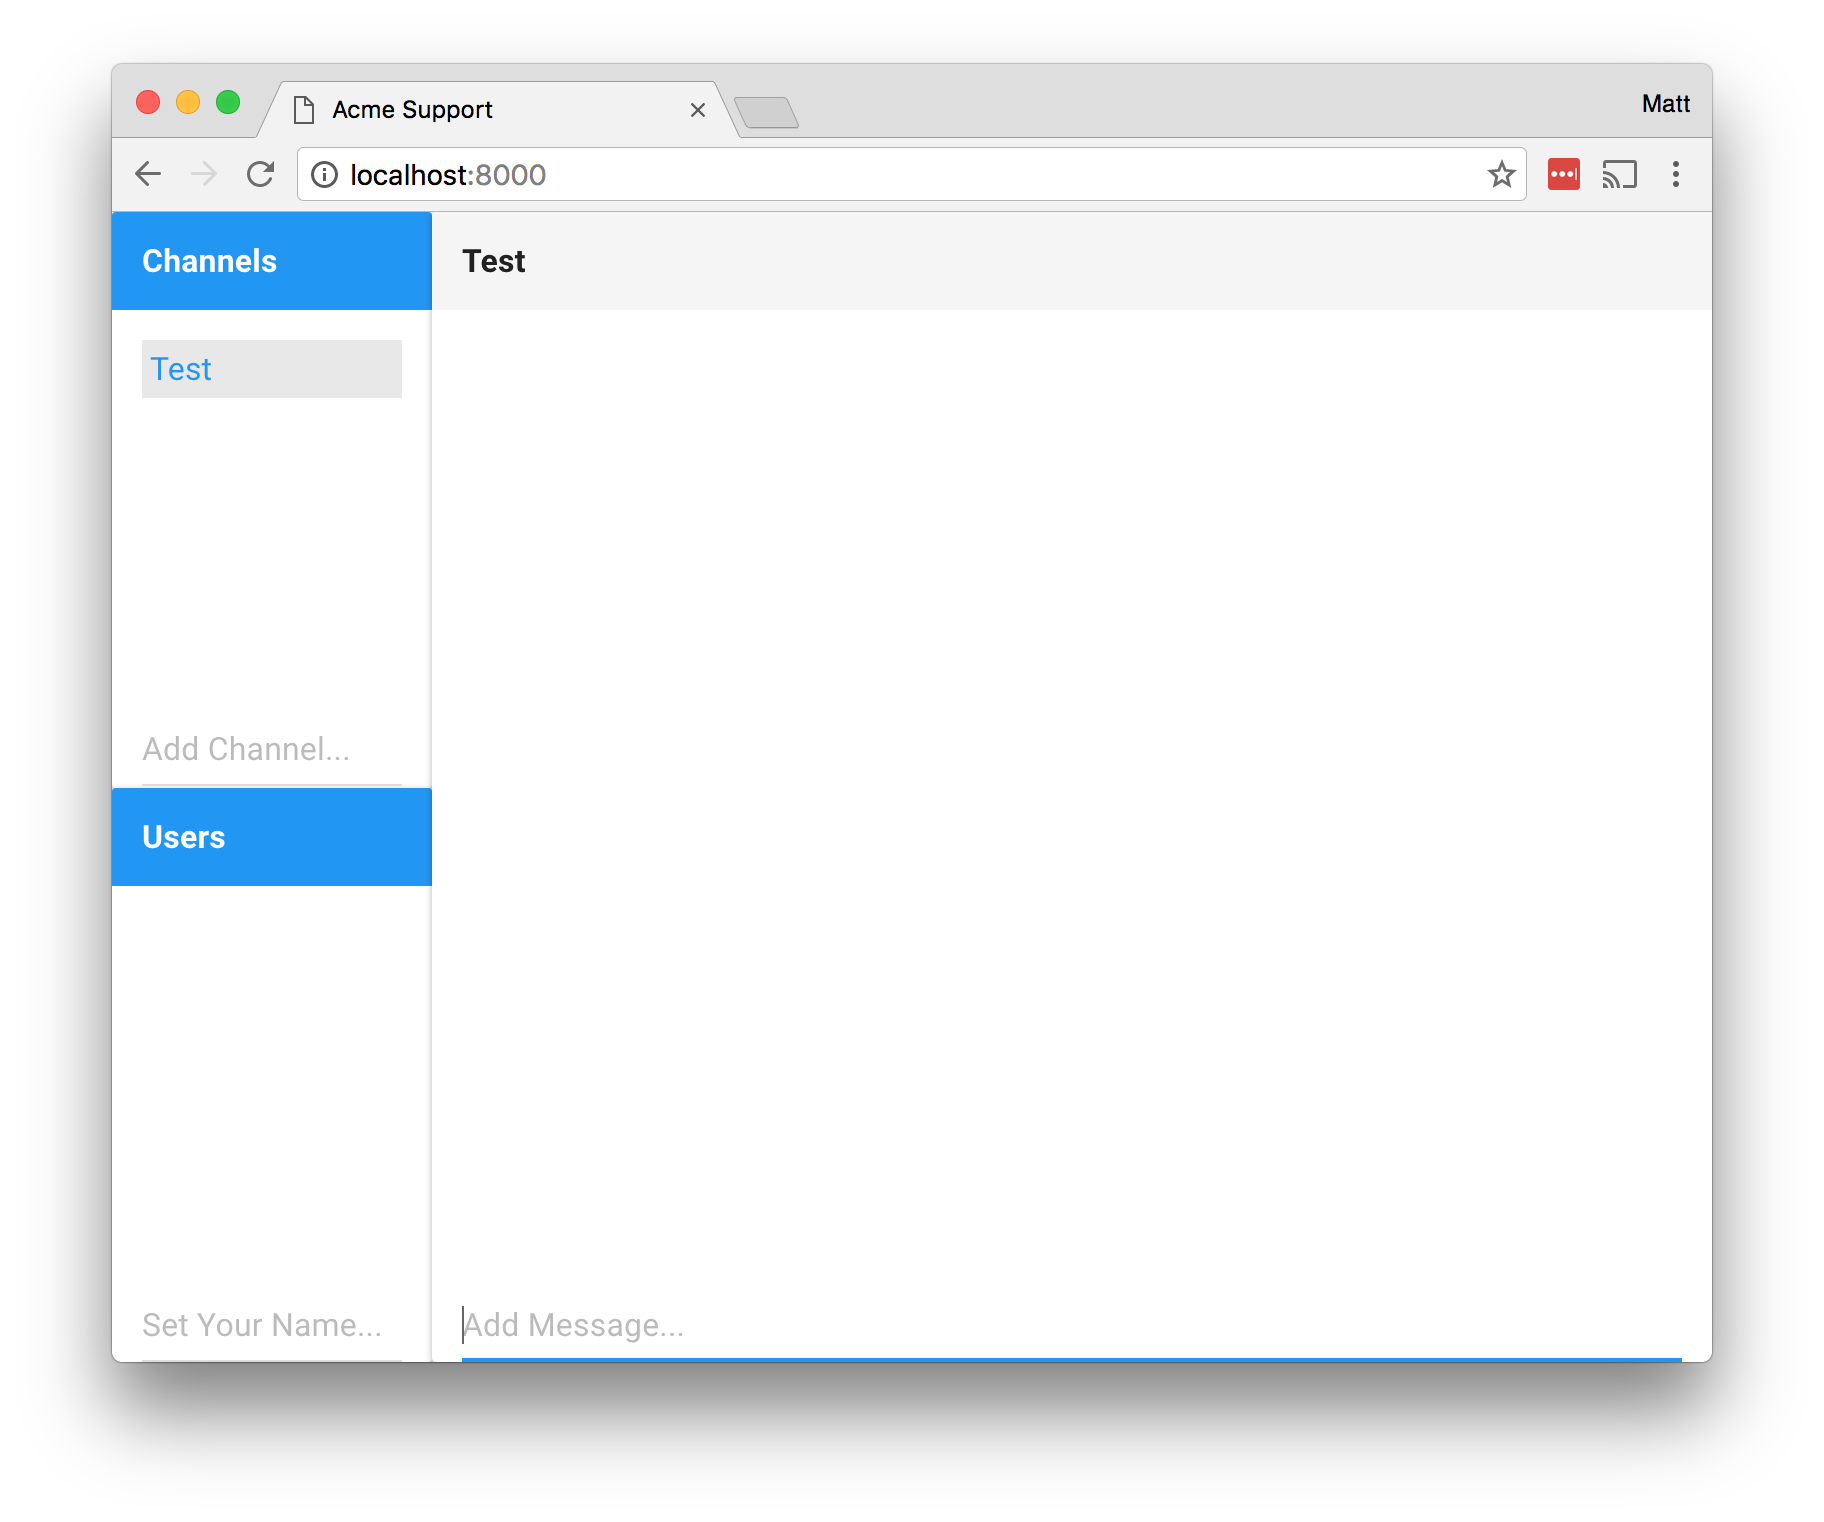
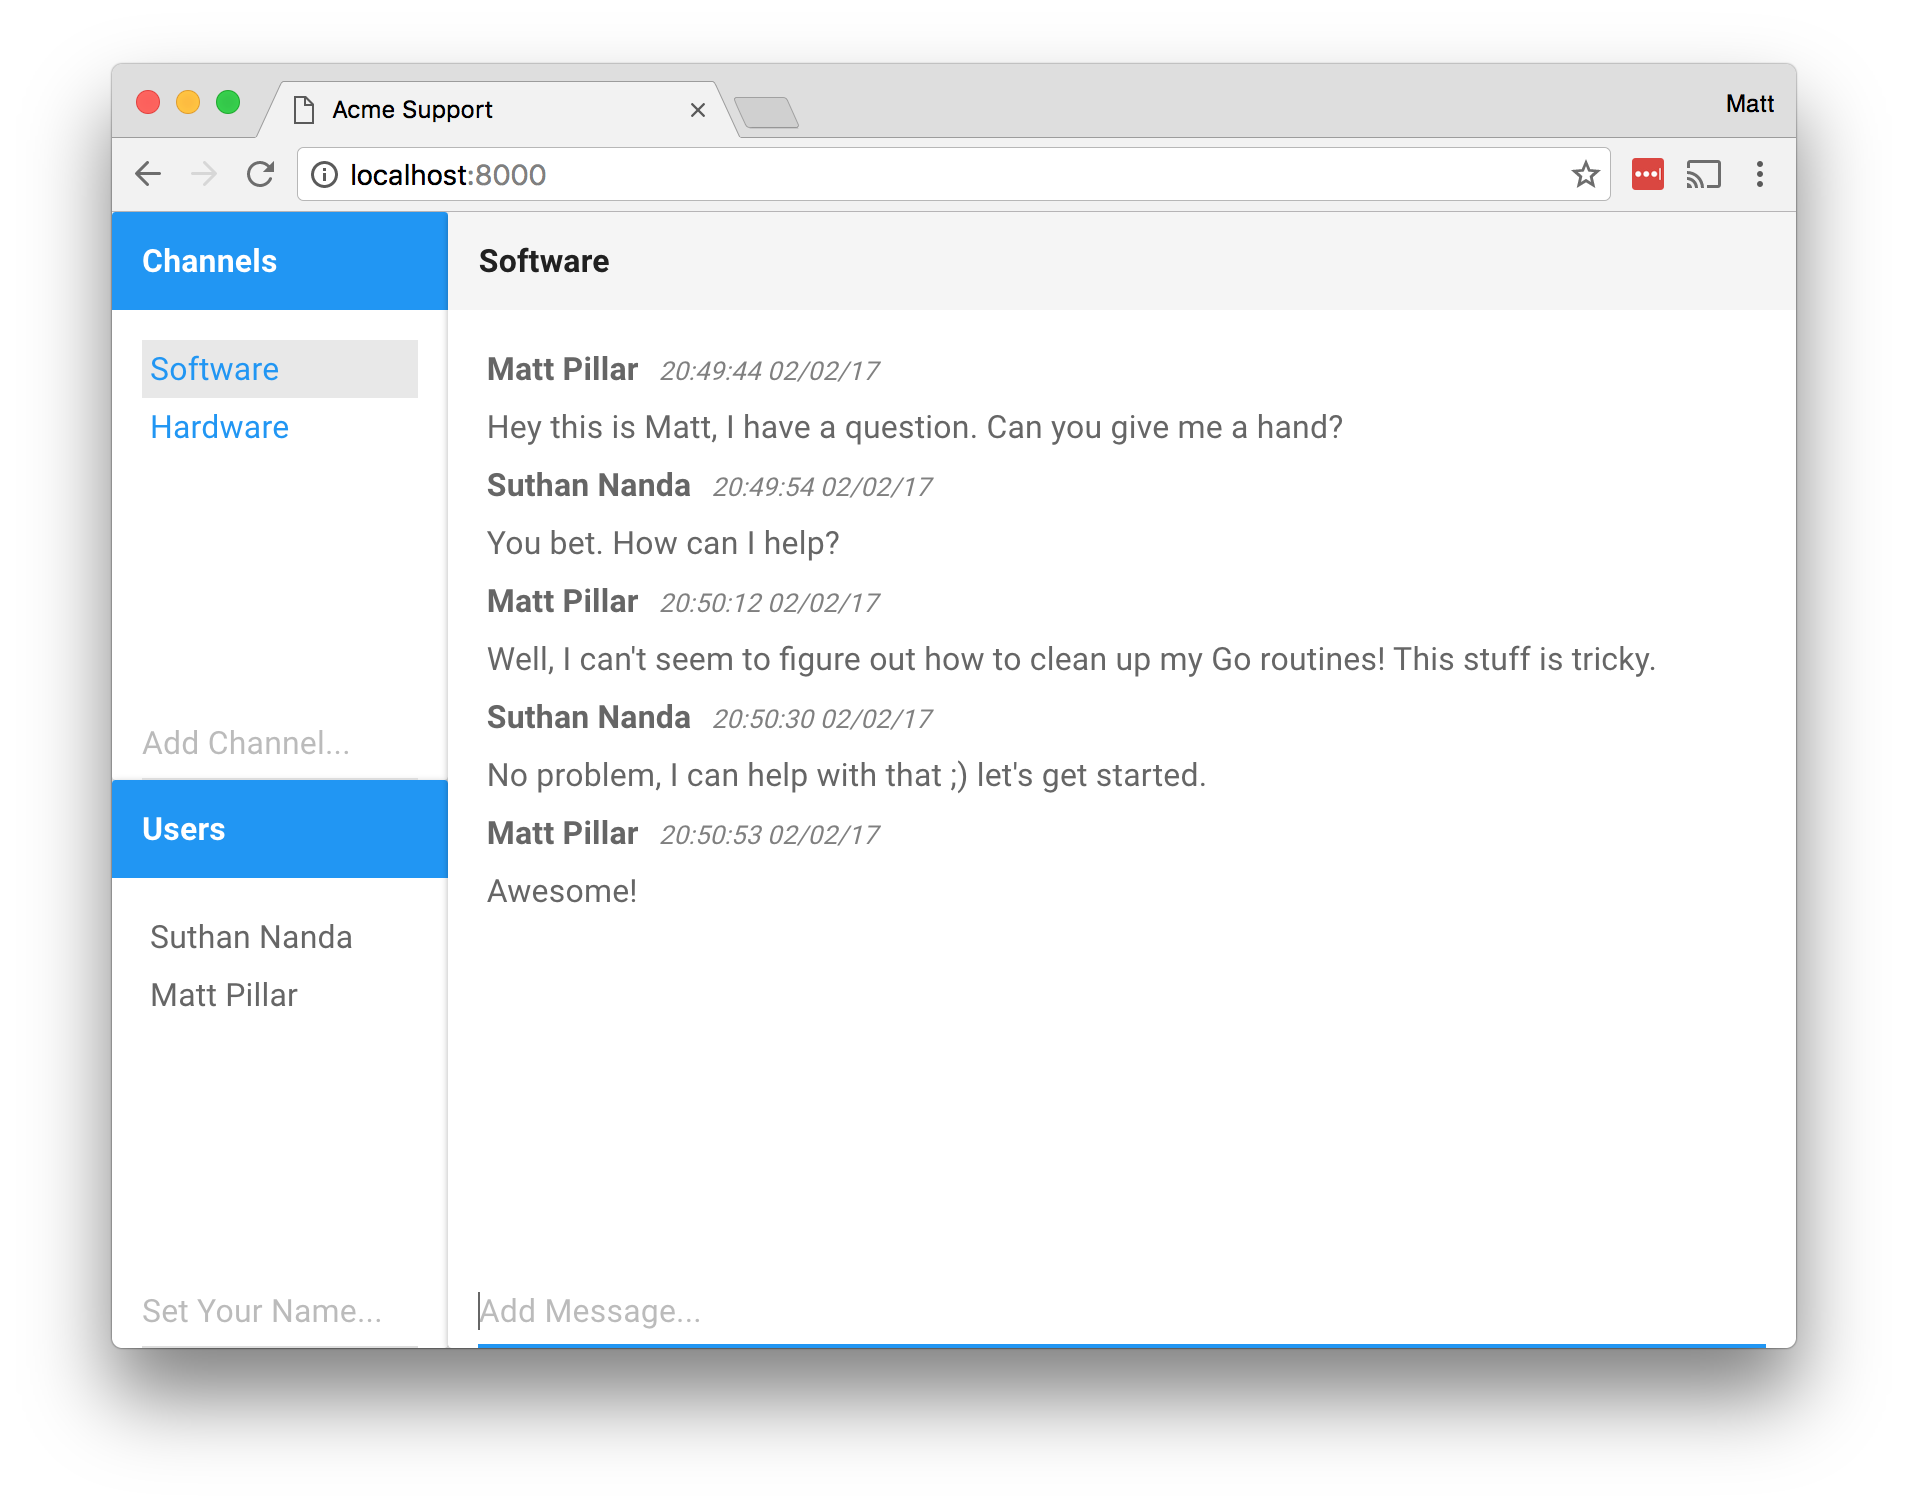
Add backend plubming for messages; MVP complete

diff --git a/go/handlers.go b/go/handlers.go
@@ -3,6 +3,7 @@ package main
 import (
 	r "github.com/dancannon/gorethink"
 	"github.com/mitchellh/mapstructure"
+	"time"
 )
 
 const (
@@ -15,14 +16,14 @@ func addChannel(client *Client, data interface{}) {
 	var channel Channel
 	err := mapstructure.Decode(data, &channel)
 	if err != nil {
-		client.send <- Message{"error", err.Error()}
+		client.send <- Payload{"error", err.Error()}
 		return
 	}
 	go func() {
 		err := r.Table("channels").Insert(channel).Exec(client.session)
 
 		if err != nil {
-			client.send <- Message{"error", err.Error()}
+			client.send <- Payload{"error", err.Error()}
 		}
 	}()
 }
@@ -36,7 +37,7 @@ func subscribeChannel(client *Client, data interface{}) {
 		Run(client.session)
 
 	if err != nil {
-		client.send <- Message{"error", err.Error()}
+		client.send <- Payload{"error", err.Error()}
 	}
 
 	go func() {
@@ -55,7 +56,7 @@ func subscribeChannel(client *Client, data interface{}) {
 				return
 			case change := <-result:
 				if change.NewValue != nil && change.OldValue == nil {
-					client.send <- Message{"channel add", change.NewValue}
+					client.send <- Payload{"channel add", change.NewValue}
 				}
 			}
 		}
@@ -75,7 +76,7 @@ func subscribeUser(client *Client, data interface{}) {
 		Run(client.session)
 
 	if err != nil {
-		client.send <- Message{"error", err.Error()}
+		client.send <- Payload{"error", err.Error()}
 	}
 
 	go func() {
@@ -94,13 +95,13 @@ func subscribeUser(client *Client, data interface{}) {
 				return
 			case change := <-result:
 				if change.NewValue != nil && change.OldValue != nil {
-					client.send <- Message{"user edit", change.NewValue}
+					client.send <- Payload{"user edit", change.NewValue}
 				}
 				if change.NewValue != nil && change.OldValue == nil {
-					client.send <- Message{"user add", change.NewValue}
+					client.send <- Payload{"user add", change.NewValue}
 				}
 				if change.NewValue == nil && change.OldValue != nil {
-					client.send <- Message{"user remove", change.OldValue}
+					client.send <- Payload{"user remove", change.OldValue}
 				}
 			}
 		}
@@ -115,7 +116,7 @@ func editUser(client *Client, data interface{}) {
 	var user User
 	err := mapstructure.Decode(data, &user)
 	if err != nil {
-		client.send <- Message{"error", err.Error()}
+		client.send <- Payload{"error", err.Error()}
 		return
 	}
 	user.Id = client.user.Id
@@ -123,8 +124,75 @@ func editUser(client *Client, data interface{}) {
 	go func() {
 		err := r.Table("users").Update(user).Exec(client.session)
 		if err != nil {
-			client.send <- Message{"error", err.Error()}
+			client.send <- Payload{"error", err.Error()}
 		}
 		client.user = user
+	}()
+}
+
+func subscribeMessage(client *Client, data interface{}) {
+	var channel Channel
+	err := mapstructure.Decode(data, &channel)
+	if err != nil {
+		client.send <- Payload{"error", err.Error()}
+		return
+	}
+
+	stop := client.NewStopChannel(MessageStop)
+	result := make(chan r.ChangeResponse)
+
+	cursor, err := r.Table("messages").
+		//Filter(map[interface{}]interface{}{"channelId": channel.Id}).
+		//OrderBy(map[interface{}]interface{}{"index": "createdAt"}).
+		Changes(r.ChangesOpts{IncludeInitial: true}).
+		Run(client.session)
+
+	if err != nil {
+		client.send <- Payload{"error", err.Error()}
+	}
+
+	go func() {
+		var change r.ChangeResponse
+		for cursor.Next(&change) {
+			result <- change
+
+		}
+	}()
+
+	go func() {
+		for {
+			select {
+			case <-stop:
+				cursor.Close()
+				return
+			case change := <-result:
+				if change.NewValue != nil && change.OldValue == nil {
+					client.send <- Payload{"message add", change.NewValue}
+				}
+			}
+		}
+	}()
+}
+
+func unsubscribeMessage(client *Client, data interface{}) {
+	client.StopForKey(MessageStop)
+}
+
+func addMessage(client *Client, data interface{}) {
+	var message Message
+	err := mapstructure.Decode(data, &message)
+	if err != nil {
+		client.send <- Payload{"error", err.Error()}
+		return
+	}
+
+	message.CreatedAt = time.Now()
+	message.Author = client.user.Name
+
+	go func() {
+		err := r.Table("messages").Insert(message).Exec(client.session)
+		if err != nil {
+			client.send <- Payload{"error", err.Error()}
+		}
 	}()
 }

diff --git a/go/client.go b/go/client.go
@@ -10,7 +10,7 @@ import (
 type FindHandler func(string) (Handler, bool)
 
 type Client struct {
-	send         chan Message
+	send         chan Payload
 	socket       *websocket.Conn
 	findHandler  FindHandler
 	session      *r.Session
@@ -25,7 +25,7 @@ func (c *Client) NewStopChannel(stopKey int) chan bool {
 	return stop
 }
 
-type Message struct {
+type Payload struct {
 	Name string      `json:"name"`
 	Data interface{} `json:"data"`
 }
@@ -38,24 +38,24 @@ func (c *Client) StopForKey(key int) {
 }
 
 func (client *Client) Read() {
-	var message Message
+	var payload Payload
 	for {
-		if err := client.socket.ReadJSON(&message); err != nil {
+		if err := client.socket.ReadJSON(&payload); err != nil {
 			break
 		}
 
-		log.Printf("Rx name:'%s' data:'%#v'", message.Name, message.Data)
-		if handler, found := client.findHandler(message.Name); found {
-			handler(client, message.Data)
+		log.Printf("Rx name:'%s' data:'%#v'", payload.Name, payload.Data)
+		if handler, found := client.findHandler(payload.Name); found {
+			handler(client, payload.Data)
 		}
 	}
 	client.socket.Close()
 }
 
 func (client *Client) Write() {
-	for message := range client.send {
-		log.Printf("Tx name:'%s' data:'%#v'", message.Name, message.Data)
-		if err := client.socket.WriteJSON(message); err != nil {
+	for payload := range client.send {
+		log.Printf("Tx name:'%s' data:'%#v'", payload.Name, payload.Data)
+		if err := client.socket.WriteJSON(payload); err != nil {
 			break
 		}
 	}
@@ -92,7 +92,7 @@ func NewClient(socket *websocket.Conn, findHandler FindHandler, session *r.Sessi
 
 	return &Client{
 		user:         user,
-		send:         make(chan Message),
+		send:         make(chan Payload),
 		socket:       socket,
 		findHandler:  findHandler,
 		session:      session,

diff --git a/go/main.go b/go/main.go
@@ -4,6 +4,7 @@ import (
 	r "github.com/dancannon/gorethink"
 	"log"
 	"net/http"
+	"time"
 )
 
 type Channel struct {
@@ -14,6 +15,13 @@ type Channel struct {
 type User struct {
 	Id   string `json:"id" gorethink:"id,omitempty"`
 	Name string `json:"name" gorethink:"name,omitempty"`
+}
+
+type Message struct {
+	ChannelId string    `json:"channelId" gorethink:"channelId,omitempty"`
+	Author    string    `json:"author" gorethink:"author,omitempty"`
+	CreatedAt time.Time `json:"createdAt" gorethink:"createdAt,omitempty"`
+	Body      string    `json:"body" gorethink:"body,omitempty"`
 }
 
 func main() {
@@ -29,14 +37,19 @@ func main() {
 	log.Println("Creating srchat database in RethinkDB...")
 	r.DBCreate("srchat").Exec(session)
 	r.DB("srchat").TableCreate("channels").Exec(session)
-	r.DB("srchat").TableCreate("messages").Exec(session)
 	r.DB("srchat").TableCreate("users").Exec(session)
+	r.DB("srchat").TableCreate("messages").Exec(session)
+	r.DB("srchat").Table("messages").IndexCreate("createdAt")
 
 	router := NewRouter(session)
 
 	router.Handle("channel subscribe", subscribeChannel)
 	router.Handle("channel unsubscribe", unsubscribeChannel)
 	router.Handle("channel add", addChannel)
+
+	router.Handle("message subscribe", subscribeMessage)
+	router.Handle("message unsubscribe", unsubscribeMessage)
+	router.Handle("message add", addMessage)
 
 	router.Handle("user subscribe", subscribeUser)
 	router.Handle("user unsubscribe", unsubscribeUser)

diff --git a/README.md b/README.md
@@ -24,8 +24,3 @@ Install RethinkDB.
 ## Screenshot
 
 <img src="example.png"/>
-
-## TODO
-
-There are many backend pieces missing. The channel set and subscribe funcationality was added as a
-PoC for the backend, but there is still much to do.
